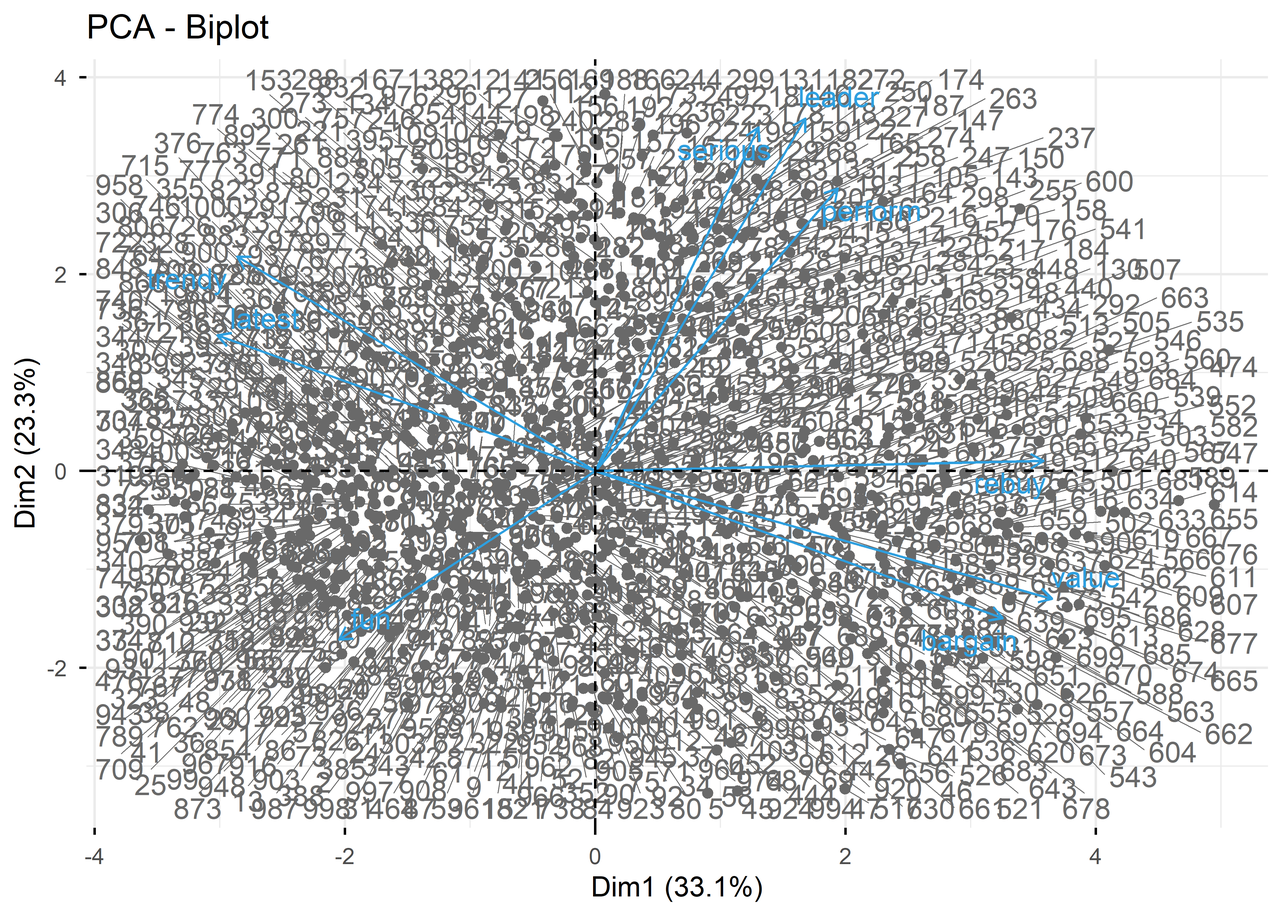
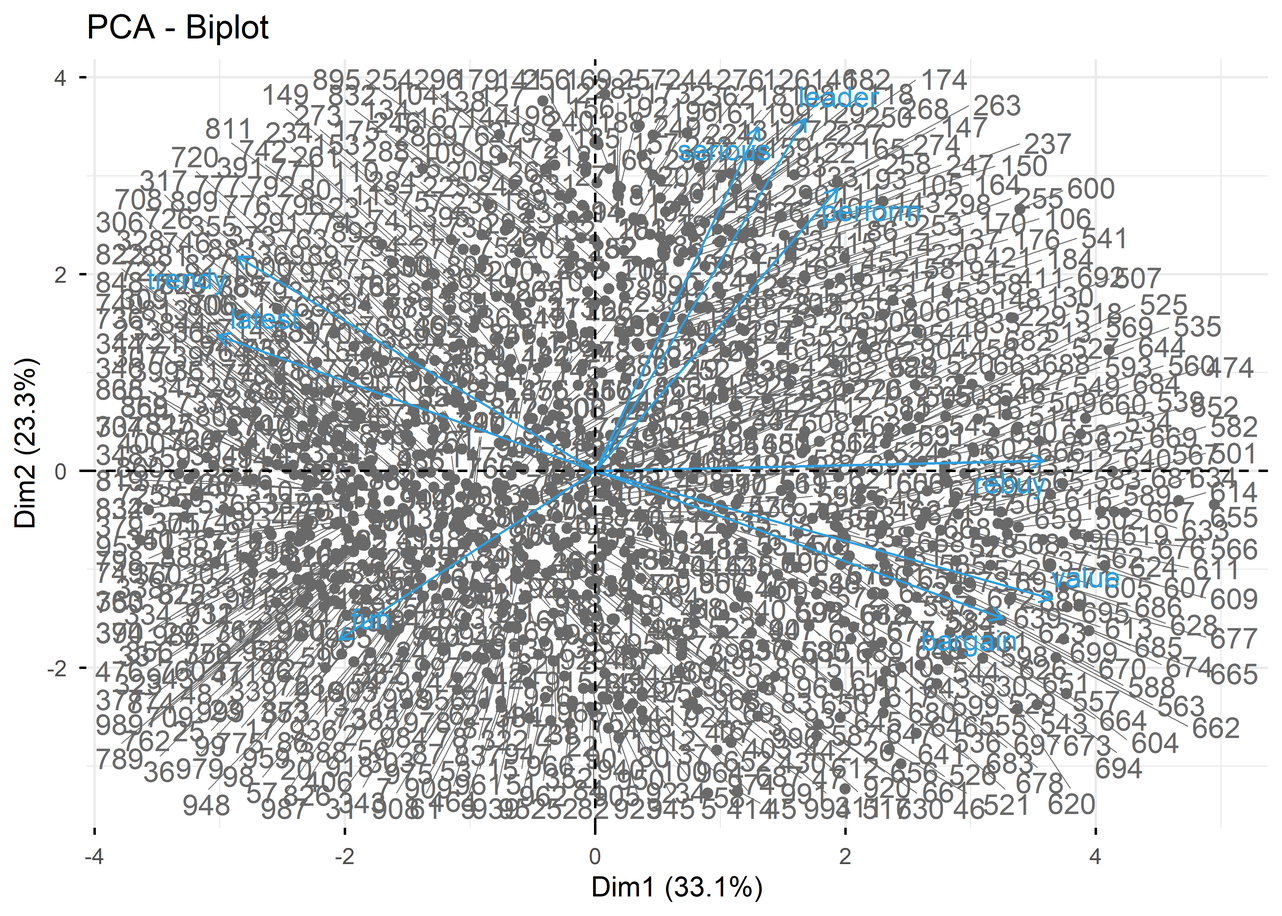
atualiza semana 08

diff --git a/docs/programacao/semana-8.html b/docs/programacao/semana-8.html
@@ -227,6 +227,13 @@ ul.task-list li input[type="checkbox"] {
 <p><a href="..\aulas/analise_comp_princ/comp_princ.html#/title-slide" class="btn btn-est304-main btn-sm">Ver slides</a> <a href="..\aulas/analise_comp_princ/comp_princ.pdf" class="btn btn-est304-outline btn-sm">PDF</a></p>
 </div>
 </div>
+<section id="script-de-análise-de-dados" class="level2">
+<h2 class="anchored" data-anchor-id="script-de-análise-de-dados">Script de análise de dados</h2>
+<div class="list-group-item d-flex justify-content-between align-items-center">
+<p><span class="fw-bold"> <i class="fa-brands fa-r-project fa-lg" aria-label="r-project"></i> Mapas Perceptuais com PCA: estudo de marcas </span></p>
+<p><span> <a href="..\analise_dados/brands.html" class="btn btn-est304-main btn-sm">Ver análise</a> <a href="..\analise_dados/brands.pdf" class="btn btn-est304-outline btn-sm">PDF</a> </span></p>
+</div>
+</section>
 </div>
 
 

diff --git a/docs/cronograma.html b/docs/cronograma.html
@@ -566,10 +566,10 @@ ul.task-list li input[type="checkbox"] {
 <td>Qui, 27/11</td>
 <td>Análise de Componentes Principais</td>
 <td style="text-align: center;"></td>
-<td style="text-align: center;"><a href=".\aulas/analise_comp_princ/comp_princ.html#/componentes-principais-variáveis-padronizadas" aria-label="Análise de Componentes Principais" title="Análise de Componentes Principais"><i class="fa-solid fa-file-powerpoint fa-2xl" aria-label="file-powerpoint"></i></a></td>
 <td style="text-align: center;"></td>
 <td style="text-align: center;"></td>
 <td style="text-align: center;"></td>
+<td style="text-align: center;"><a href=".\analise_dados/brands.html" aria-label="Análise de dados" title="Análise de dados"><i class="fa-brands fa-r-project fa-2xl" aria-label="r-project"></i></a></td>
 <td style="text-align: center;"></td>
 <td style="text-align: center;"></td>
 </tr>
